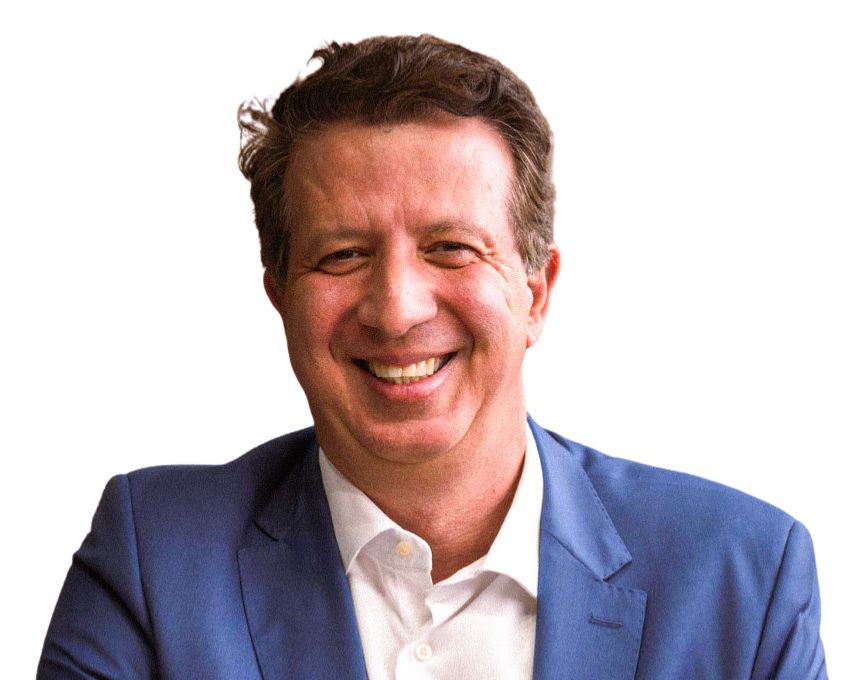
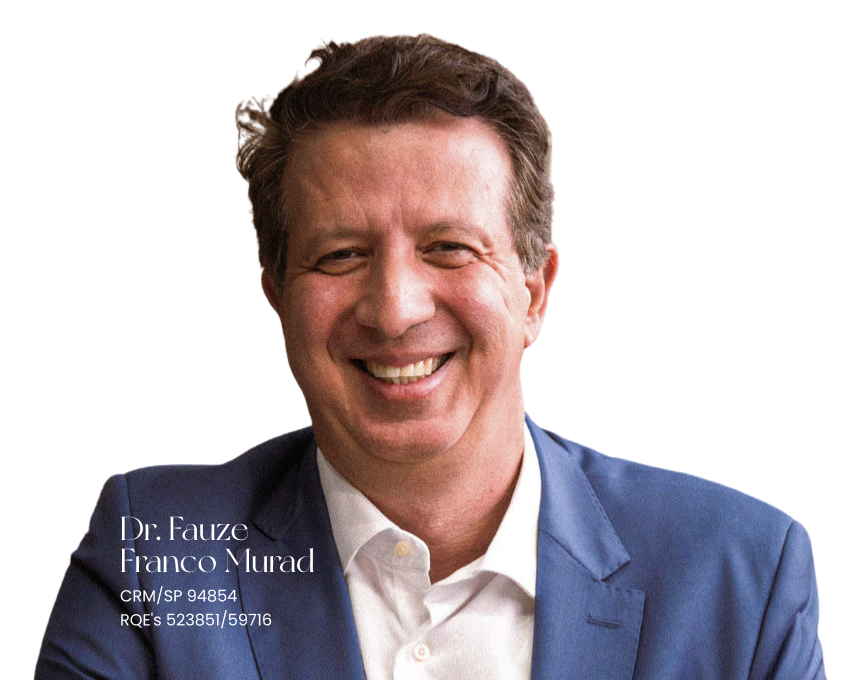
add texto e mudança da foto do footer

diff --git a/index.html b/index.html
@@ -62,7 +62,7 @@
   <div class="container about__content">
     <div class="about__text">
       <h1>Inovação e cuidado em<br> tratamentos modernos</h1>
-      <p>Desde 2004, trazendo excelência em <b>Ginecologia e<br> Obstetrícia</b> proporcionando a <b>recuperação de sua<br> autoconfiança</b> com procedimentos que<br> <b>rejuvenescem, fortalecem e revitalizam.</b></p>
+      <p>Desde 2004, trazendo excelência em <b>Ginecologia e<br> Obstetrícia</b> proporcionando a <b>recuperação de sua<br> autoconfiança</b> com procedimentos que <b>rejuvenescem<br> fortalecem e revitalizam sua saúde íntima.</b></p>
       <div class="gradient-btn">
         <button class="btn-about">Agendar uma Consulta</button>
       </div>
@@ -114,7 +114,7 @@
           <div class="card">
             <img src="assets/svg/Group.svg" alt="Imagem 1">
             <h2>Equipe Qualificada</h2>
-            <p>Profissionais experientes prontos<br> para cuidar da sua saúde com<br> excelência.</p>
+            <p>Nutrólogos e ginecologistas<br> prontos para cuidar da sua<br> saúde com excelência.</p>
           </div>
           <div class="card">
             <img src="assets/svg/check.svg" alt="Imagem 2">

diff --git a/styles.css b/styles.css
@@ -453,7 +453,7 @@ body {
 .cards{
   display: flex;
   flex-direction: row;
-  gap: 20px;
+  gap: 40px;
   align-items: center;
   justify-content: start;
 }
